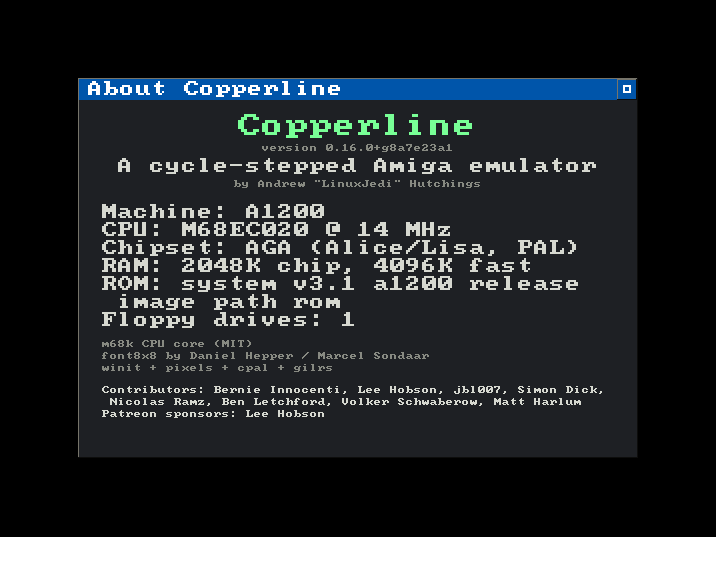
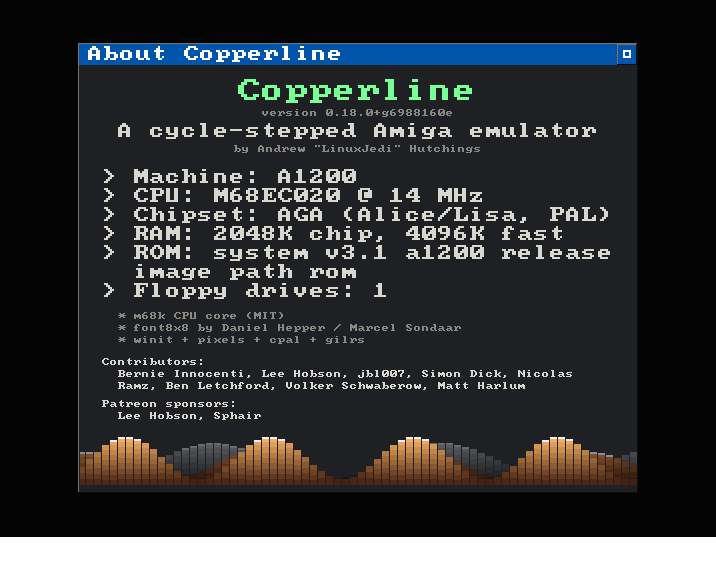
credits: thank Sphair as a Patreon sponsor
Sphair is Copperline's newest patron. Add him to the Patreon sponsors
list in CREDITS.md and to the PATREON_SPONSORS const rendered by the
About panel, and regenerate the About-panel preview image.

Changed region(s): [[0.0922, 0.062, 0.8911, 0.8675], [0.5838, 0.5577, 0.6453, 0.5886], [0.1536, 0.2169, 0.1844, 0.2478]]

diff --git a/src/video/about.rs b/src/video/about.rs
@@ -29,7 +29,7 @@ const CONTRIBUTORS: &[&str] = &[
     "Volker Schwaberow",
     "Matt Harlum",
 ];
-const PATREON_SPONSORS: &[&str] = &["Lee Hobson"];
+const PATREON_SPONSORS: &[&str] = &["Lee Hobson", "Sphair"];
 
 /// One title letter every so often: ten letters make the
 /// near-three-second assembly.

diff --git a/CREDITS.md b/CREDITS.md
@@ -27,6 +27,7 @@ does.
 Thank you to:
 
 - Lee Hobson
+- Sphair
 
 ## Bundled third-party code
 
